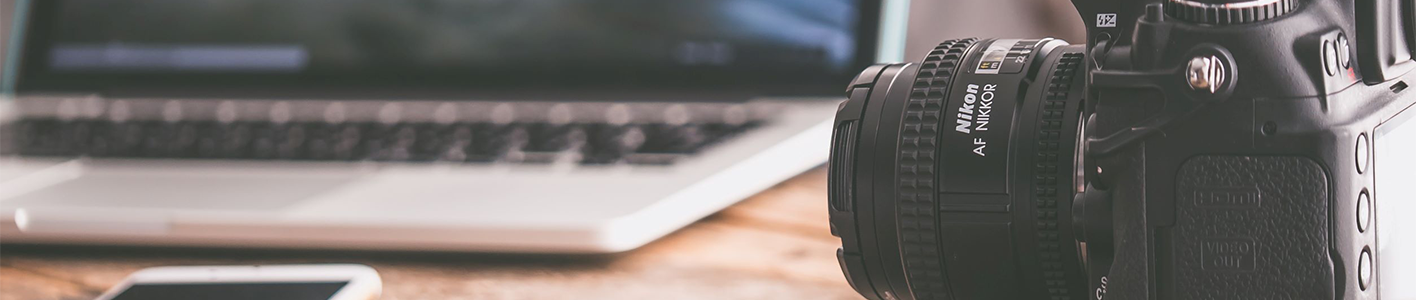
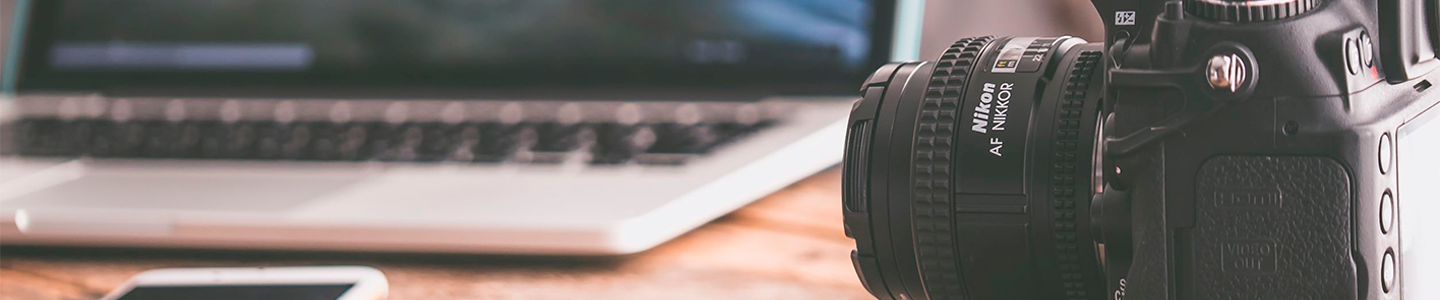
Cambios pre entrega 1

diff --git a/index.html b/index.html
@@ -48,23 +48,22 @@
     </nav>
     <header class="header">
         <div class="imgHeader">
-            <img class="imgHeader2" src="imagenes/Header copia.png" alt="">
+            <img class="imgHeader2" src="https://res.cloudinary.com/duiynxkh1/image/upload/v1643073712/Pulso/led-light-17-scaled_oxoqcy.png" alt="">
             <!--LOGO-->
         </div>
     </header>
     <!--Quienes Somos-->
     <section id="who">
 
-        <h1 class="title">Lo hacemos posible ;)</h1>
+        <h1 class="title justify-content-center">Lo hacemos posible ;)</h1>
 
 
-        <div class="container-fluid pb-4">
+        <div class="container-fluid pb-4 pt-5">
             <div class="row">
                 <div class="col-lg-6 align-self-center">
                     <h2 class="who">Quienes Somos</h2>
-                    <p class="whoTexto">Lorem ipsum dolor sit amet consectetur adipisicing elit. Ab excepturi
-                        exercitationem beatae ullam temporibus in ducimus obcaecati eligendi voluptas illo quae ipsam
-                        maiores, qui maxime, hic quidem laboriosam! Ipsam, quam?</p>
+                    <p class="whoTexto">Pulso es un Estudio de diseño gráfico digital y multimedia, dedicado a potenciar y obtener el máximo desempeño de su compañía, negocio o emprendimiento. Brindamos las mejores soluciones creativas para nuestros clientes.
+                    </p>
                 </div>
                 <div class="col-lg-6 d-flex justify-content-center">
                     <iframe width="560" height="315" src="https://www.youtube.com/embed/LLiIuve5kMw"
@@ -77,72 +76,42 @@
     </section>
     <div class="corteFondo"></div>
     <!--Novedades-->
-    <section id="news" class="pt-3">
-        <h2 class="news">Novedades</h2>
+    <section id="news">
 
         <div class="container-fluid pb-3">
 
-            <div id="carouselExampleCaptions" class="carousel slide" data-bs-ride="carousel">
-                <div class="carousel-indicators">
-                  <button type="button" data-bs-target="#carouselExampleCaptions" data-bs-slide-to="0" class="active" aria-current="true" aria-label="Slide 1"></button>
-                  <button type="button" data-bs-target="#carouselExampleCaptions" data-bs-slide-to="1" aria-label="Slide 2"></button>
-                  <button type="button" data-bs-target="#carouselExampleCaptions" data-bs-slide-to="2" aria-label="Slide 3"></button>
-                </div>
+            <div id="carouselExampleSlidesOnly" class="carousel slide" data-bs-ride="carousel">
                 <div class="carousel-inner">
-                  <div class="carousel-item active">
-                    <img src="imagenes/slide1.png" class="d-block w-100" alt="...">
-                    <div class="carousel-caption d-none d-md-block">
-                      <h5>First slide label</h5>
-                      <p>Some representative placeholder content for the first slide.</p>
-                    </div>
-                  </div>
-                  <div class="carousel-item">
-                    <img src="imagenes/slide2.png" class="d-block w-100" alt="...">
-                    <div class="carousel-caption d-none d-md-block">
-                      <h5>Second slide label</h5>
-                      <p>Some representative placeholder content for the second slide.</p>
-                    </div>
-                  </div>
-                  <div class="carousel-item">
-                    <img src="imagenes/slide3.png" class="d-block w-100" alt="...">
-                    <div class="carousel-caption d-none d-md-block">
-                      <h5>Third slide label</h5>
-                      <p>Some representative placeholder content for the third slide.</p>
-                    </div>
-                  </div>
+                  <div class="carousel-item active" data-bs-interval="5000">
+                    <img src="https://res.cloudinary.com/duiynxkh1/image/upload/v1643082673/Pulso/slide1_rbcjv1.png" class="d-block w-100" alt="...">
                 </div>
-                <button class="carousel-control-prev" type="button" data-bs-target="#carouselExampleCaptions" data-bs-slide="prev">
-                  <span class="carousel-control-prev-icon" aria-hidden="true"></span>
-                  <span class="visually-hidden">Previous</span>
-                </button>
-                <button class="carousel-control-next" type="button" data-bs-target="#carouselExampleCaptions" data-bs-slide="next">
-                  <span class="carousel-control-next-icon" aria-hidden="true"></span>
-                  <span class="visually-hidden">Next</span>
-                </button>
+                  <div class="carousel-item" data-bs-interval="5000">
+                    <img src="https://res.cloudinary.com/duiynxkh1/image/upload/v1643066757/Pulso/slide2_lslp3s.png" class="d-block w-100" alt="...">  
+                </div>
+                  <div class="carousel-item" data-bs-interval="5000">
+                    <img src="https://res.cloudinary.com/duiynxkh1/image/upload/v1643085977/Pulso/2132-Steve-Jobs-Quote-Creativity-is-just-connecting-things_ggb4ov.png" class="d-block w-100" alt="...">               
+                </div>
+                </div>
               </div>
 
             
 
                 <div class="row mt-4 mb-2">
                     <div class="col d-flex justify-content-center">
-                        <img class="fotoNews4 d-flex" src="https://dummyimage.com/600x300/000/fff" alt="">
+                        <img class="fotoNews4 d-flex" src="https://res.cloudinary.com/duiynxkh1/image/upload/v1643072402/Pulso/creativity-png-7_hsusea.png" alt="">
                     </div>
                     <div class="col d-flex justify-content-center align-self-center">
-                        <p class="listaNews">Lorem ipsum dolor, sit amet consectetur adipisicing elit.
-                            Est sequi id fugiat
-                            necessitatibus magni perspiciatis voluptas, molestias quidem quaerat aut reprehenderit.</p>
+                        <span class="listaNews">Nuestro equipo de trabajo creativo se encarga de generar y compartir las ideas que nos permitirán potenciar tu negocio</span>
                     </div>
     
                 </div>
             
             <div class="row mt-4 mb-2">
                 <div class="col d-flex justify-content-center">
-                    <img class="fotoNews4 d-flex" src="https://dummyimage.com/600x300/000/fff" alt="">
+                    <img class="fotoNews4 d-flex" src="https://res.cloudinary.com/duiynxkh1/image/upload/v1643078193/Pulso/statistics_pnsogg.png" alt="">
                 </div>
                 <div class="col d-flex justify-content-center align-self-center">
-                    <p class="listaNews">Lorem ipsum dolor, sit amet consectetur adipisicing elit.
-                        Est sequi id fugiat
-                        necessitatibus magni perspiciatis voluptas, molestias quidem quaerat aut reprehenderit.</p>
+                    <span class="listaNews">Llevamos al día las estadísticas de alcance, haciendo estudios de mercado previos y posteriores para visualizar el rendimiento de nuestros servicios </span>
                 </div>
 
             </div>
@@ -153,7 +122,7 @@
     <div class="corteFondo"></div>
     <!--Clientes-->
     <section id="clientes">
-        <h2 class="clientes">Clientes</h2>
+        <h2 class="clientes pb-2">Clientes</h2>
 
         <div class="container-fluid pb-5">
             <div class="row">

diff --git a/css/estilos.css b/css/estilos.css
@@ -2,6 +2,7 @@
 @import url("https://fonts.googleapis.com/css2?family=Baumans&display=swap");
 @import url("https://fonts.googleapis.com/css2?family=Arima+Madurai:wght@700&display=swap");
 @import url("https://fonts.googleapis.com/css2?family=Advent+Pro&display=swap");
+@import url("https://fonts.googleapis.com/css2?family=Montserrat:wght@300;600&display=swap");
 * {
   margin: 0%;
   padding: 0%; }
@@ -19,9 +20,8 @@ a:hover {
 
 /*---------------H E A D E R  Y  N A V---------------*/
 .navbar-nav, .navbar-brand {
-  font-family: 'Arvo', sans-serif;
-  font-size: 1.2rem;
-  text-transform: uppercase;
+  font-family: 'Montserrat', sans-serif;
+  font-size: 1em;
   letter-spacing: 1px; }
 
 .imgHeader2 {
@@ -30,22 +30,22 @@ a:hover {
 /*---------------Q U I E N E S  S O M O S---------------*/
 .title {
   display: flex;
-  font-size: 4.2em;
-  font-family: 'Baumans', sans-serif;
+  font-size: 4em;
+  font-family: 'Montserrat', sans-serif;
   font-weight: 600;
   justify-content: center;
-  margin-bottom: 1em;
-  width: 100%; }
+  width: 100%;
+  text-align: center; }
 
 #who {
-  padding-top: 3em;
+  padding-top: 7em;
   padding-bottom: 3em;
-  background-color: #FFEDE1; }
+  background-color: #fff; }
 
 .who {
   font-size: 2.5em;
-  font-family: 'Arima Madurai', sans-serif;
-  font-weight: 700;
+  font-family: 'Montserrat', sans-serif;
+  font-weight: 600;
   display: flex;
   justify-content: center;
   text-align: center; }
@@ -56,19 +56,17 @@ a:hover {
   text-align: center; }
 
 .corteFondo {
-  background-image: url("../../imagenes/BEERNNING-0051.jpg");
-  background-size: cover;
-  background-attachment: fixed;
-  height: 2em; }
+  background-color: #000;
+  height: 1.5em; }
 
 /*---------------N O V E D A D E S---------------*/
 #news {
-  background-color: #FFEDE1; }
+  background-color: #fff; }
 
 .news {
   font-size: 2.5em;
-  font-family: 'Arima Madurai', sans-serif;
-  font-weight: 700;
+  font-family: 'Montserrat', sans-serif;
+  font-weight: 600;
   display: flex;
   justify-content: center; }
 
@@ -80,14 +78,19 @@ a:hover {
   font-size: 1.2em;
   text-align: center; }
 
+.titleCarousel, .textoCarousel {
+  color: black; }
+
 /*---------------C L I E N T E S---------------*/
 #clientes {
-  background-color: #AFCBFF; }
+  background-color: #fff;
+  padding-top: 4em;
+  padding-bottom: 5em; }
 
 .clientes {
   font-size: 2.5em;
-  font-family: 'Arima Madurai', sans-serif;
-  font-weight: 700;
+  font-family: 'Montserrat', sans-serif;
+  font-weight: 600;
   display: flex;
   justify-content: center; }
 
@@ -111,18 +114,17 @@ a:hover {
 
 .titleServicios {
   display: flex;
-  font-size: 4.2em;
-  font-family: 'Baumans', sans-serif;
+  font-size: 4em;
+  font-family: 'Montserrat', sans-serif;
   font-weight: 600;
   justify-content: center;
-  margin-bottom: 1em;
   width: 100%;
   background-color: #C0BCB5; }
 
 .subServicio, .subServicio2, .subServicio3 {
   font-size: 2.5em;
-  font-family: 'Arima Madurai', sans-serif;
-  font-weight: 700;
+  font-family: 'Montserrat', sans-serif;
+  font-weight: 600;
   display: flex;
   justify-content: center;
   background-color: #C0BCB5; }
@@ -150,11 +152,10 @@ a:hover {
 
 .titleContacto {
   display: flex;
-  font-size: 4.2em;
-  font-family: 'Baumans', sans-serif;
+  font-size: 4em;
+  font-family: 'Montserrat', sans-serif;
   font-weight: 600;
   justify-content: center;
-  margin-bottom: 1em;
   width: 100%; }
 
 /*---------------F O O T E R---------------*/
@@ -165,8 +166,8 @@ a:hover {
 .social {
   color: #ffffff;
   font-size: 2.5em;
-  font-family: 'Arima Madurai', sans-serif;
-  font-weight: 700;
+  font-family: 'Montserrat', sans-serif;
+  font-weight: 600;
   display: flex;
   justify-content: center; }
 

diff --git a/scss/pages/_index.scss b/scss/pages/_index.scss
@@ -2,11 +2,13 @@
                                 /*---------------Q U I E N E S  S O M O S---------------*/
 .title{
     @include title;
+    text-align: center;
 }
 #who{
-    padding-top: 3em;
+    padding-top: 7em;
     padding-bottom: 3em;
-    background-color: #FFEDE1;
+    background-color: #fff;
+    
 }
 .who{
     @include subtitle;
@@ -16,15 +18,14 @@
     @include texto;
 }
 .corteFondo{
-    background-image: url("../../imagenes/BEERNNING-0051.jpg");
-    background-size: cover;
-    background-attachment: fixed;;
-    height: 2em;
+    background-color: #000;
+    height: 1.5em;
 }
                                 /*---------------N O V E D A D E S---------------*/
 
 #news{
-    background-color: #FFEDE1;
+    background-color: #fff;
+    
 }
 .news{
     @include subtitle;
@@ -36,12 +37,19 @@
 
 .listaNews{
     @include texto;
+
+}
+.titleCarousel, .textoCarousel{
+    color: black;
 }
 
                                 /*---------------C L I E N T E S---------------*/
 
 #clientes{
-    background-color: #AFCBFF;
+    background-color: #fff;
+    padding-top: 4em;
+    padding-bottom: 5em;
+    
 }                              
 .clientes{
     @include subtitle;

diff --git a/scss/_variables.scss b/scss/_variables.scss
@@ -1,22 +1,30 @@
 $color:#ffffff;
 @mixin texto {
+    
     font-family: 'Arvo', sans-serif;
     font-size: 1.2em;
     text-align: center;
 }
 @mixin subtitle{
+    
     font-size: 2.5em;
-    font-family: 'Arima Madurai', sans-serif;
-    font-weight: 700;
+    font-family: 'Montserrat', sans-serif;
+    font-weight: 600;
     display: flex;
     justify-content: center;
 }
 @mixin title {
+    
     display: flex;
-    font-size: 4.2em;
-    font-family: 'Baumans', sans-serif;
+    font-size: 4em;
+    font-family: 'Montserrat', sans-serif;
     font-weight: 600;
     justify-content: center;
-    margin-bottom: 1em;
     width: 100%;
-    }
+}
+
+@mixin animacion {
+
+
+    
+}

diff --git a/scss/main.scss b/scss/main.scss
@@ -3,6 +3,7 @@
 @import url('https://fonts.googleapis.com/css2?family=Baumans&display=swap');
 @import url('https://fonts.googleapis.com/css2?family=Arima+Madurai:wght@700&display=swap');
 @import url('https://fonts.googleapis.com/css2?family=Advent+Pro&display=swap');
+@import url('https://fonts.googleapis.com/css2?family=Montserrat:wght@300;600&display=swap');
 
 @import "mainstyles";
 @import "variables";

diff --git a/scss/componentes/_header.scss b/scss/componentes/_header.scss
@@ -1,9 +1,8 @@
                                 /*---------------H E A D E R  Y  N A V---------------*/
 
 .navbar-nav{
-    font-family: 'Arvo', sans-serif;
-    font-size: 1.2rem;
-    text-transform: uppercase;
+    font-family: 'Montserrat', sans-serif;
+    font-size: 1em;
     letter-spacing: 1px;
 }
 .navbar-brand{
